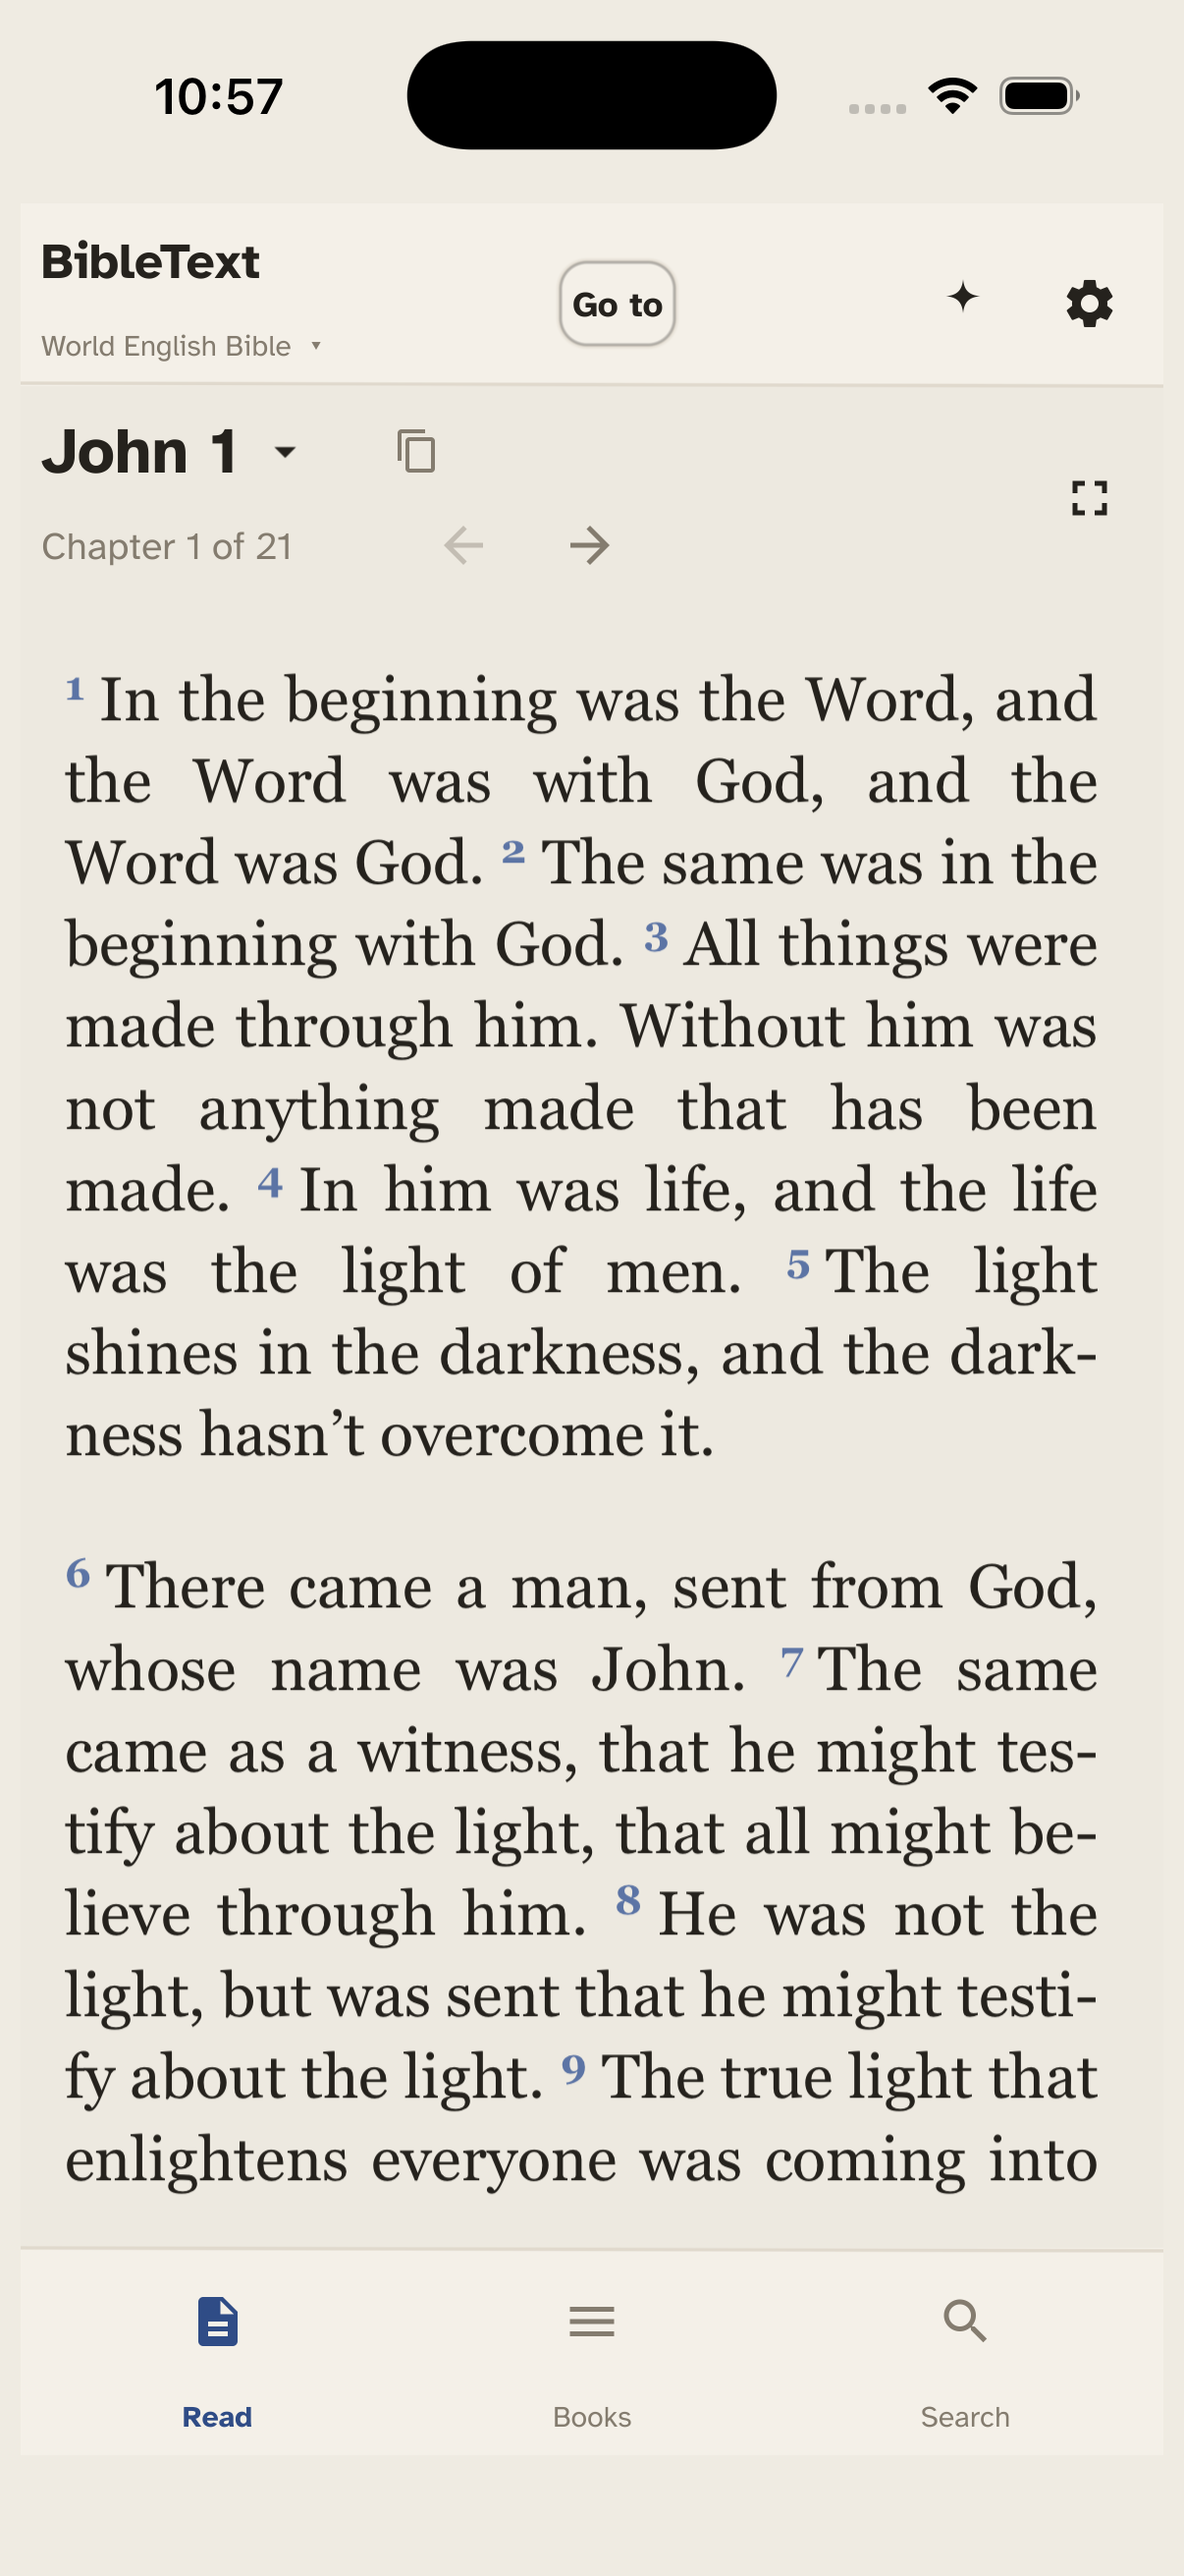
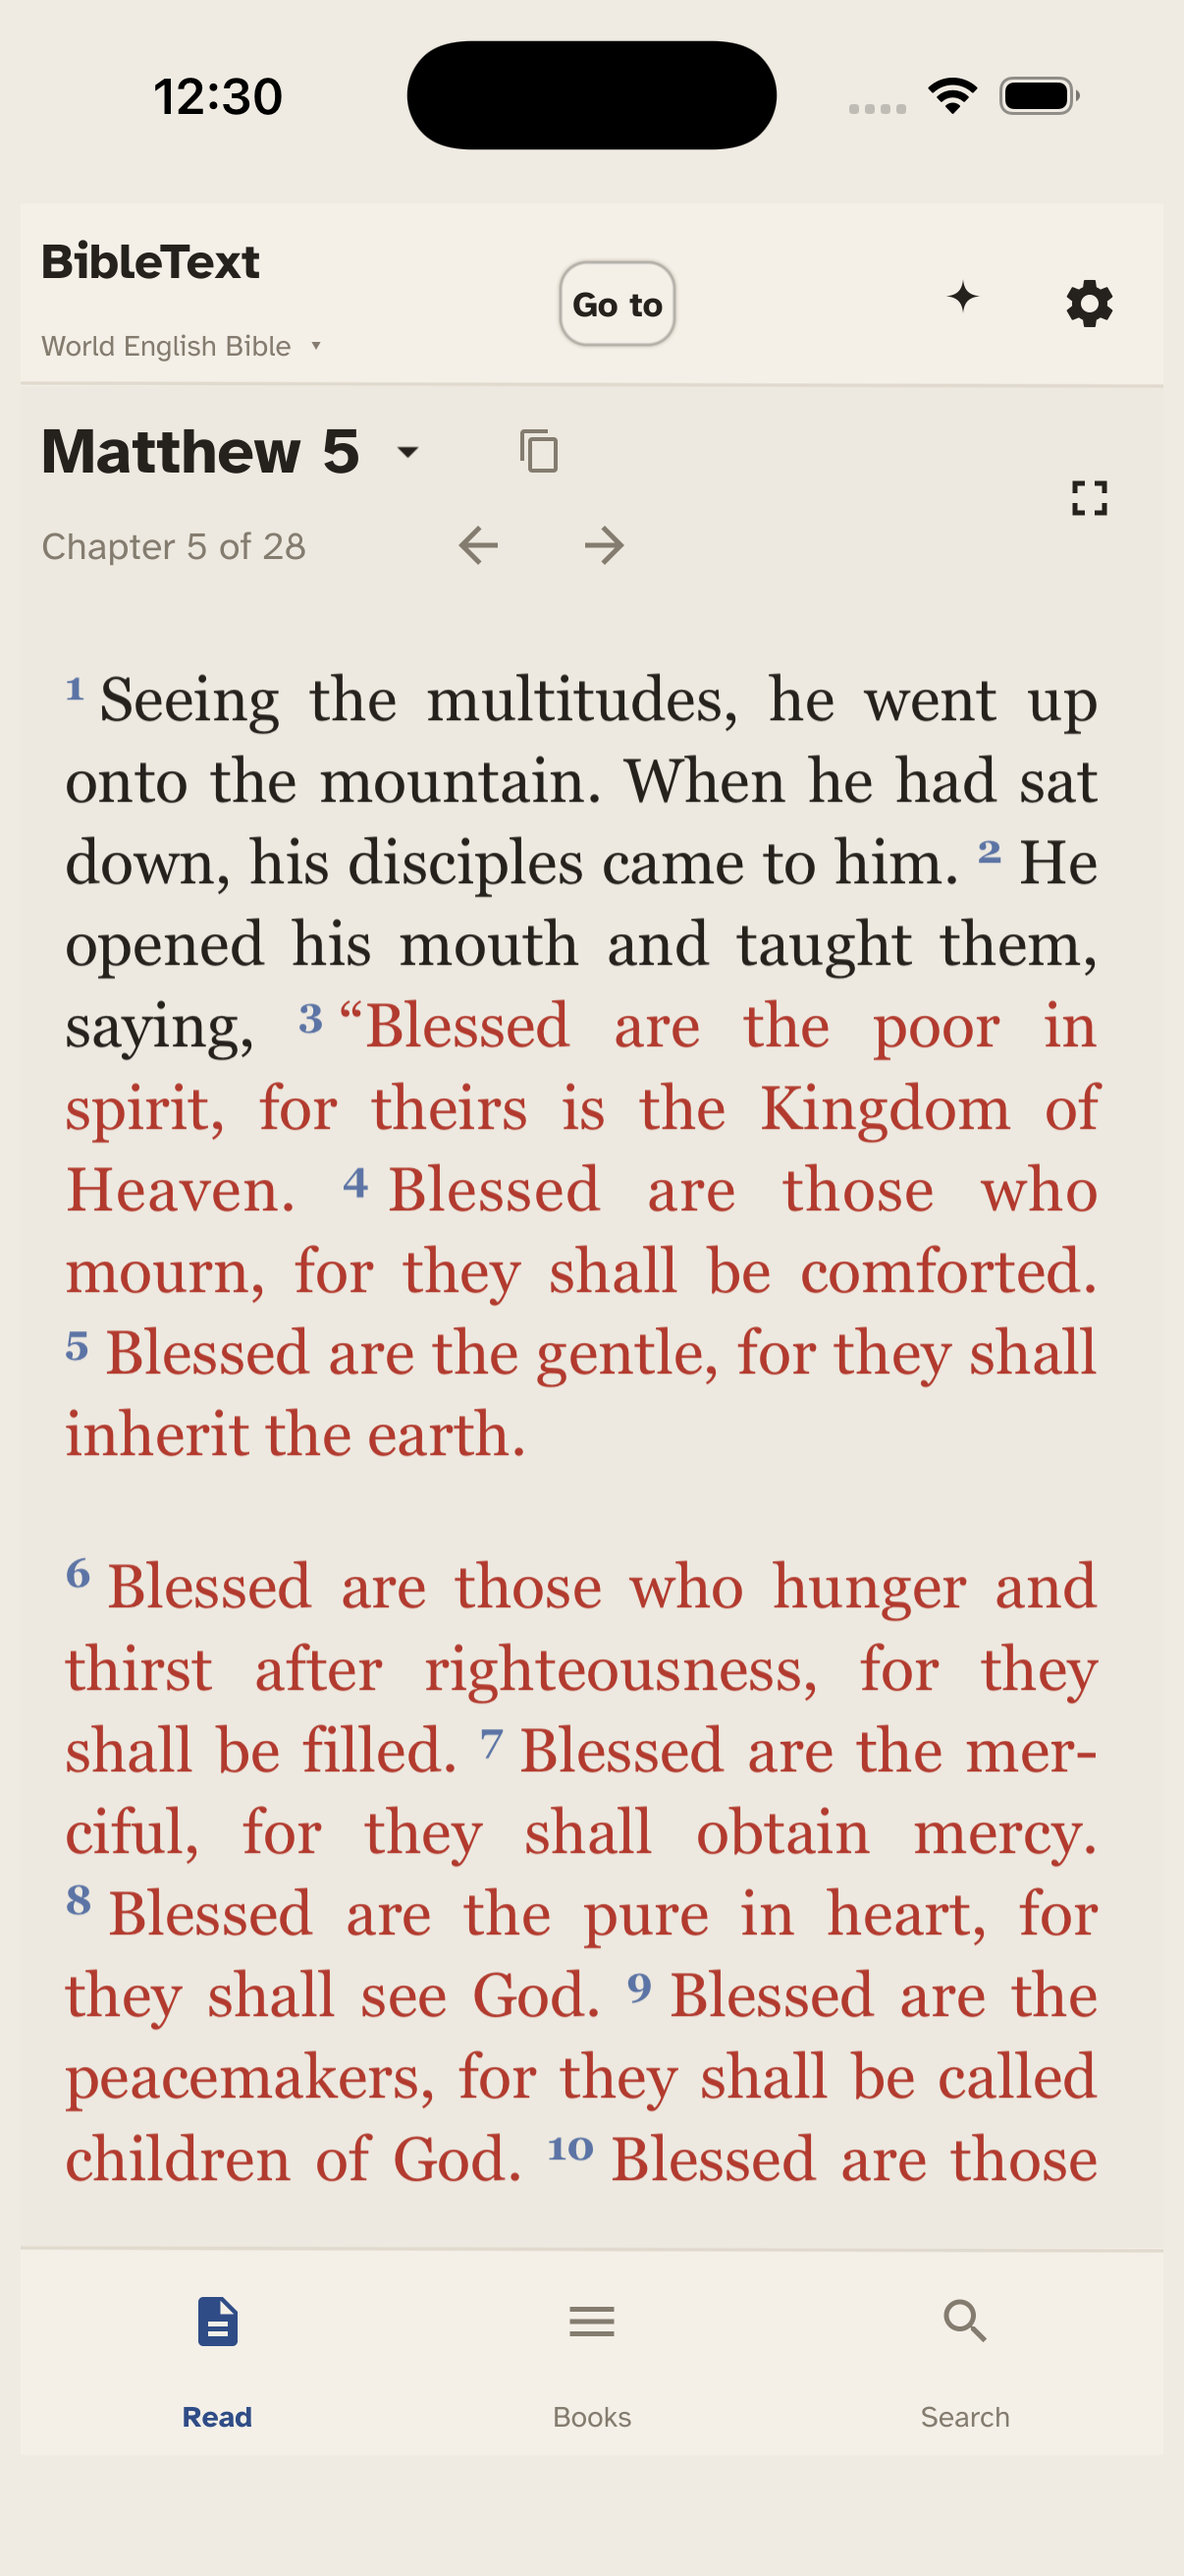
README: lead with reading and the two most distinctive features
Rework the top screenshot strip down to three shots, ordered the way
Bible apps order their store screenshots: the reading view (now a
red-letter Matthew 5 passage so the words of Christ show colour), Study
with AI showing a real result panel, and share-as-image. Each column
gains a one-line caption.

Cross-references and Gospel parallels move into a collapsed "More"
section, and the Go-to navigator shot is dropped because it shows
navigation chrome rather than a distinguishing feature.

diff --git a/README.md b/README.md
@@ -5,9 +5,20 @@ iOS** from a single Go codebase, built with [Fyne](https://fyne.io/). It present
 public-domain translations — the **World English Bible (WEB)** and **Berean
 Standard Bible (BSB)** — in a calm, responsive reading layout.
 
-| Reading | Cross-references & Gospel parallels | Go to | Share as image |
-|:---:|:---:|:---:|:---:|
-| ![Reading view](docs/screenshots/reading.png) | ![Cross-references and Gospel parallels](docs/screenshots/cross-references.png) | ![Go to navigator](docs/screenshots/goto.png) | ![Share as image](docs/screenshots/share-image.png) |
+| Reading | Study with AI | Share as image |
+|:---:|:---:|:---:|
+| ![Reading view with the words of Christ in red](docs/screenshots/reading.png) | ![Study any verse with AI](docs/screenshots/ai-study.png) | ![Share a verse as an image](docs/screenshots/share-image.png) |
+| Distraction-free reading — words of Christ in red | Explain, context & translation notes, with your own AI key | Any verse as shareable art with a clean citation |
+
+<details>
+<summary><b>More:</b> cross-references &amp; Gospel parallels</summary>
+
+![Cross-references and Gospel parallels](docs/screenshots/cross-references.png)
+
+Tap a verse to surface its cross-references (Treasury of Scripture Knowledge) and,
+for a Gospel passage, the parallel accounts in the other Gospels.
+
+</details>
 
 ## Build
 
